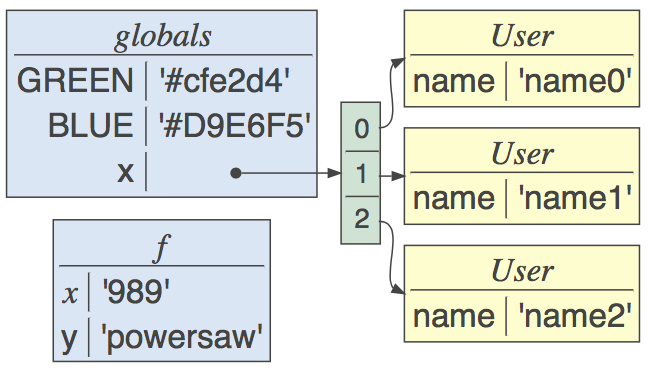
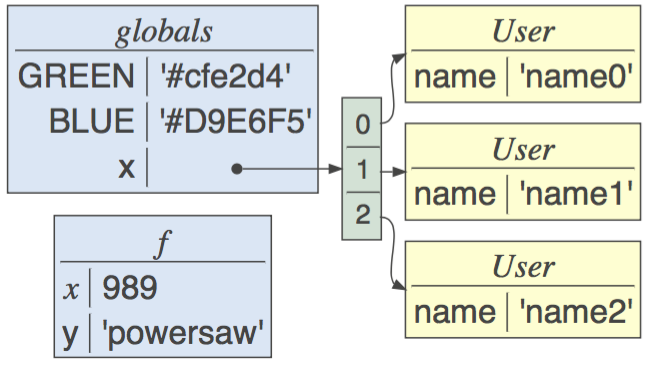
tweak

diff --git a/playground.py b/playground.py
@@ -37,7 +37,7 @@ def g(x):
 
 def f(x):
     y = "powersaw"
-    callsviz().view() #varnames=['x','y','GREEN','BLUE']).view()
+    callsviz(varnames=['x','y','GREEN','BLUE']).view()
 
 def hashcode(o): return ord(o) # assume keys are single-element strings
 
@@ -63,7 +63,7 @@ table[4].append( [9,8,7,6] )
 # print ggg.source
 # ggg.view()
 
-callsviz(varnames=['value']).view()
+# callsviz(varnames=['value','x','GREEN','BLUE']).view()
 
 mike = Tree('mike')
 root = Tree('parrt',
@@ -103,7 +103,7 @@ x = [User('name'+str(i)) for i in range(3)]
 # gg.view()
 # print gg.source
 # gg.view()
-#f(989)
+f(989)
 
 # data = ['hi','mom',{3,4},{"parrt":"user"}]
 # g = listviz(data)
